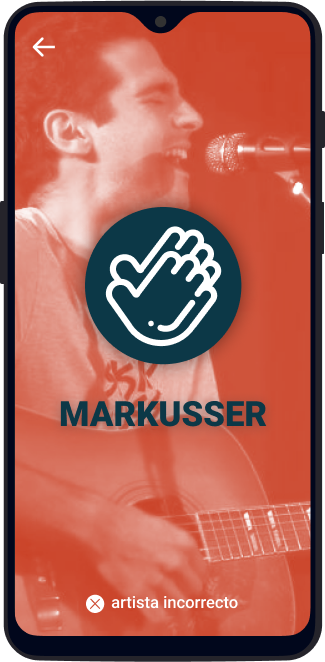
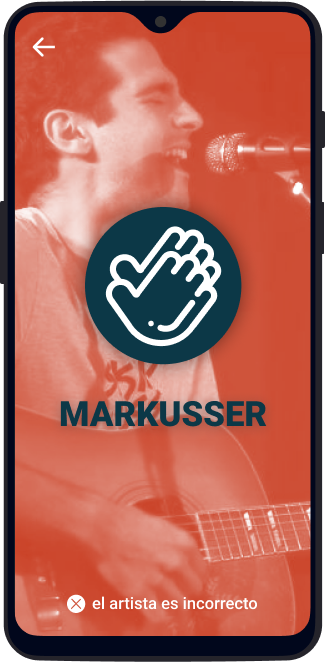
texto en mockups (marco's), y fonts

Changed region(s): [[0.1846, 0.8761, 0.8, 0.9366]]

diff --git a/css/styles.scss b/css/styles.scss
@@ -17,7 +17,7 @@
 @font-face {
     font-family: 'Changa';
     src: url('fonts/changa-Regular.ttf');
-    font-weight: regular;
+    font-weight: 400;
 }
 
 @font-face {
@@ -43,10 +43,8 @@
     font-weight: 500;
 }
 
-$Roboto: 'Roboto',
-sans-serif;
-$Changa: 'Changa',
-sans-serif;
+$Roboto: 'Roboto', sans-serif;
+$Changa: 'Changa', sans-serif;
 
 @mixin typo($ffamily, $fsize, $fcolor) {
     font-family: $ffamily;
@@ -122,7 +120,7 @@ $mobile:"(max-width:768px)";
         top: 50vh;
         color: white;
         padding: 1em;
-        
+        font-family: $Changa;
         cursor: pointer;
         z-index: 100;
         &.active {transition: transform 1s ease-in-out;}

diff --git a/css/styles.css b/css/styles.css
@@ -132,7 +132,7 @@ article, aside, details, figcaption, figure, footer, header, hgroup, menu, nav, 
 @font-face {
   font-family: 'Changa';
   src: url("fonts/changa-Regular.ttf");
-  font-weight: regular;
+  font-weight: 400;
 }
 
 @font-face {
@@ -218,6 +218,7 @@ article, aside, details, figcaption, figure, footer, header, hgroup, menu, nav, 
   top: 50vh;
   color: white;
   padding: 1em;
+  font-family: "Changa", sans-serif;
   cursor: pointer;
   z-index: 100;
 }
